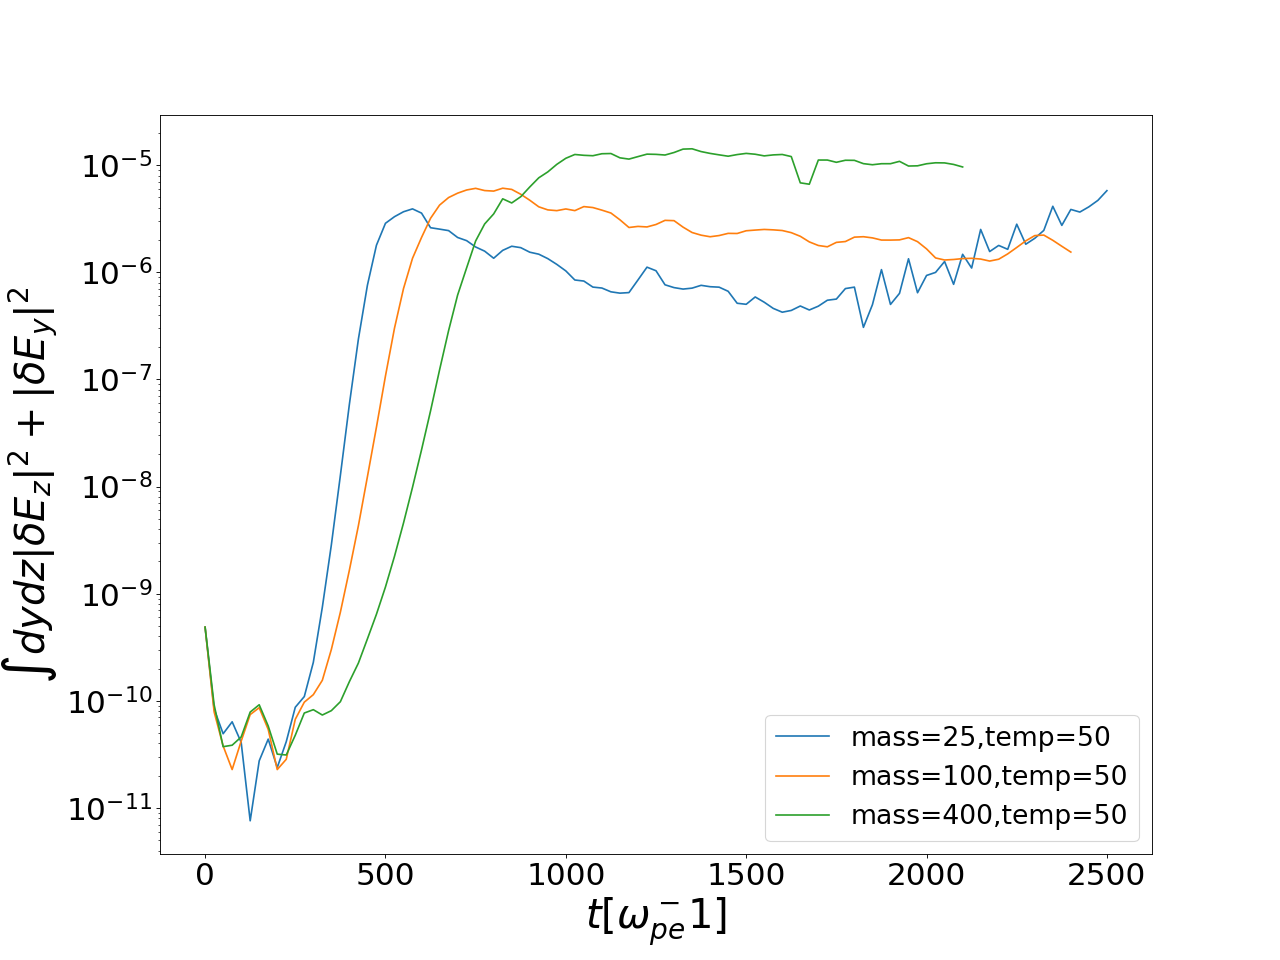
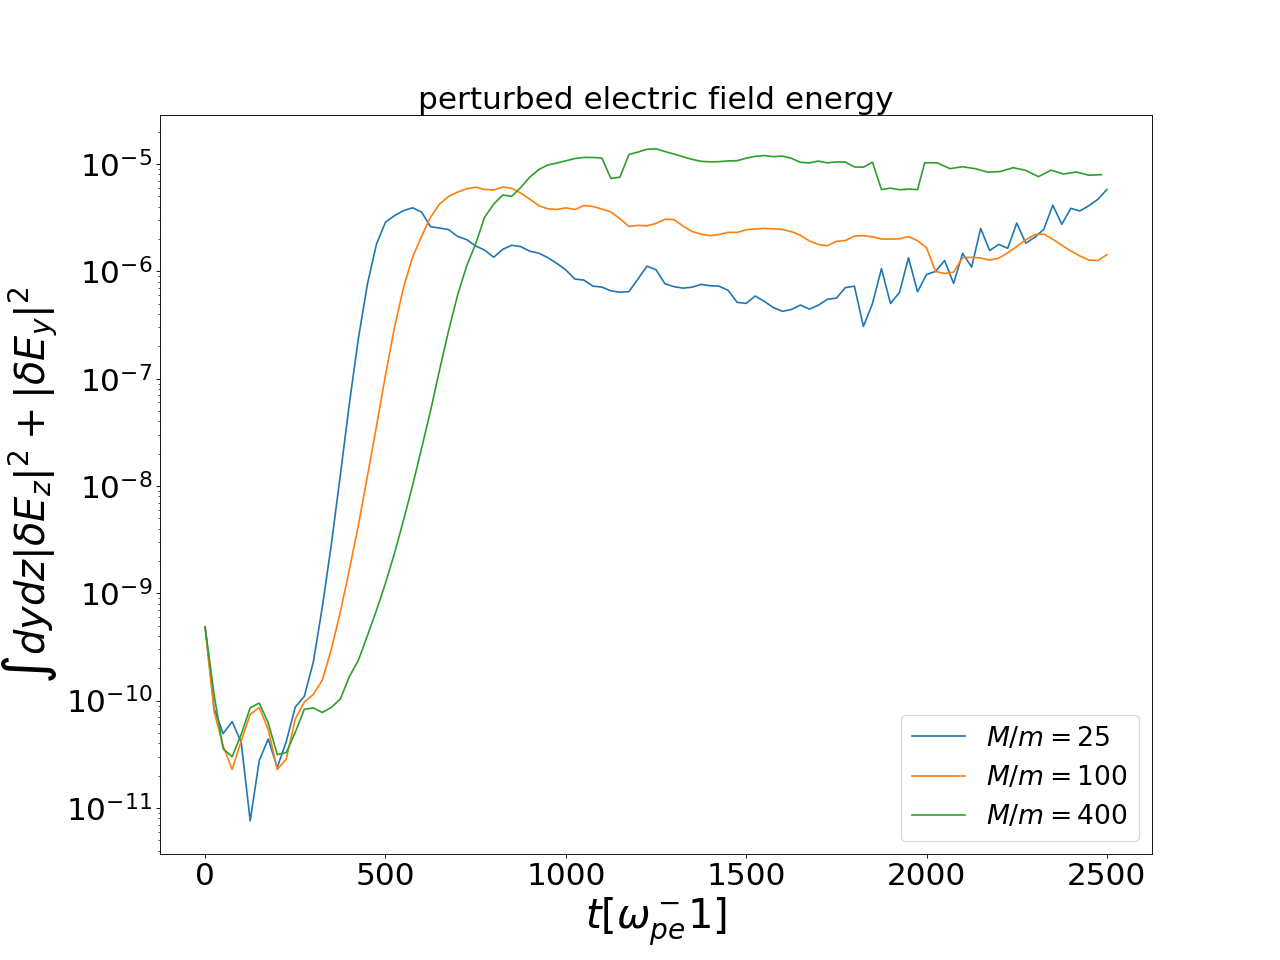
update

diff --git a/Diagnostics/local/massratio_local.py b/Diagnostics/local/massratio_local.py
@@ -116,18 +116,18 @@ from scipy.special import gamma
 # # ####### Field Energy Plot #######
 fieldEnergy1 = np.loadtxt('./Diagnostics/local/Cori/Low/saved_data/fieldEnergy.txt')
 time_fieldEnergy1 = np.loadtxt('./Diagnostics/local/Cori/Low/saved_data/fieldEnergy_time.txt')
-# fieldEnergy2 = np.loadtxt('./Diagnostics/local/Ratio/mass100/saved_data/fieldEnergy.txt')
-# time_fieldEnergy2 = np.loadtxt('./Diagnostics/local/Ratio/mass100/saved_data/fieldEnergy_time.txt')
-# fieldEnergy3 = np.loadtxt('./Diagnostics/local/Ratio/mass400/saved_data/fieldEnergy.txt')
-# time_fieldEnergy3 = np.loadtxt('./Diagnostics/local/Ratio/mass400/saved_data/fieldEnergy_time.txt')
+fieldEnergy2 = np.loadtxt('./Diagnostics/local/Ratio/mass100/saved_data/fieldEnergy.txt')
+time_fieldEnergy2 = np.loadtxt('./Diagnostics/local/Ratio/mass100/saved_data/fieldEnergy_time.txt')
+fieldEnergy3 = np.loadtxt('./Diagnostics/local/Ratio/mass400/saved_data/fieldEnergy.txt')
+time_fieldEnergy3 = np.loadtxt('./Diagnostics/local/Ratio/mass400/saved_data/fieldEnergy_time.txt')
 # fieldEnergy4 = np.loadtxt('./Diagnostics/local/Ratio/temp200/saved_data/fieldEnergy.txt')
 # time_fieldEnergy4 = np.loadtxt('./Diagnostics/local/Ratio/temp200/saved_data/fieldEnergy_time.txt')
 # fieldEnergy5 = np.loadtxt('./Diagnostics/local/Ratio/temp1/saved_data/fieldEnergy.txt')
 # time_fieldEnergy5 = np.loadtxt('./Diagnostics/local/Ratio/temp1/saved_data/fieldEnergy_time.txt')
-fieldEnergy6 = np.loadtxt('./Diagnostics/local/E_external/E1/saved_data/fieldEnergy.txt')
-time_fieldEnergy6 = np.loadtxt('./Diagnostics/local/E_external/E1/saved_data/fieldEnergy_time.txt')
-fieldEnergy7 = np.loadtxt('./Diagnostics/local/E_external/E3/saved_data/fieldEnergy.txt')
-time_fieldEnergy7 = np.loadtxt('./Diagnostics/local/E_external/E3/saved_data/fieldEnergy_time.txt')
+# fieldEnergy6 = np.loadtxt('./Diagnostics/local/E_external/E1/saved_data/fieldEnergy.txt')
+# time_fieldEnergy6 = np.loadtxt('./Diagnostics/local/E_external/E1/saved_data/fieldEnergy_time.txt')
+# fieldEnergy7 = np.loadtxt('./Diagnostics/local/E_external/E3/saved_data/fieldEnergy.txt')
+# time_fieldEnergy7 = np.loadtxt('./Diagnostics/local/E_external/E3/saved_data/fieldEnergy_time.txt')
 
 
 # # # fieldEnergy2 = np.loadtxt('./Diagnostics/local/E2_nu0.0001_check/E2_0.0001_2/saved_data/fieldEnergy.txt')
@@ -143,15 +143,15 @@ plt.figure(figsize=(16, 12), dpi=80)
 plt.title("perturbed electric field energy",fontsize=28)
 
 # #plt.plot(time_fieldEnergy2[:],fieldEnergy_z2[:],linewidth=5,label='high resolution, old')
-# plt.plot(time_fieldEnergy1[:],fieldEnergy1[:],label='$M/m=25$')
-# plt.plot(time_fieldEnergy2[:],fieldEnergy2[:],label='$M/m=100$')
-# plt.plot(time_fieldEnergy3[:95],fieldEnergy3[:95],label='$M/m=400$')
+plt.plot(time_fieldEnergy1[:],fieldEnergy1[:],label='$M/m=25$')
+plt.plot(time_fieldEnergy2[:],fieldEnergy2[:],label='$M/m=100$')
+plt.plot(time_fieldEnergy3[:95],fieldEnergy3[:95],label='$M/m=400$')
 # # plt.plot(time_fieldEnergy4[:],fieldEnergy4[:],label='mass=25,temp=200')
 # # plt.plot(time_fieldEnergy5[:],fieldEnergy5[:],label='mass=25,temp=1')
 
-plt.plot(time_fieldEnergy1[:],fieldEnergy1[:],label='E=5e-5')
-plt.plot(time_fieldEnergy7[:],fieldEnergy7[:],label='E=2.5e-5')
-plt.plot(time_fieldEnergy6[:100],fieldEnergy6[:100],label='E=1e-5')
+# plt.plot(time_fieldEnergy1[:],fieldEnergy1[:],label='E=5e-5')
+# plt.plot(time_fieldEnergy7[:],fieldEnergy7[:],label='E=2.5e-5')
+# plt.plot(time_fieldEnergy6[:],fieldEnergy6[:],label='E=1e-5')
 
 plt.xlabel(r'$t [\omega_{pe}^-1]$',fontsize=36)
 plt.ylabel(r'$\int dydz |\delta E_z|^2 + |\delta E_y|^2$',fontsize=36)
@@ -172,30 +172,30 @@ plt.show()
 # # # time_Iontemp4 = np.loadtxt('./Diagnostics/local/reduced_cost/spaceyzionelc/E2_nu0.0001/data/ion_intM2Thermal_time.txt')
 Iontemp1 = np.loadtxt('./Diagnostics/local/Cori/Low/saved_data/ion_intM2Thermal.txt')
 time_Iontemp1 = np.loadtxt('./Diagnostics/local/Cori/Low/saved_data/ion_intM2Thermal_time.txt')
-# Iontemp2 = np.loadtxt('./Diagnostics/local/Ratio/mass100/saved_data/ion_intM2Thermal.txt')
-# time_Iontemp2 = np.loadtxt('./Diagnostics/local/Ratio/mass100/saved_data/ion_intM2Thermal_time.txt')
-# Iontemp3 = np.loadtxt('./Diagnostics/local/Ratio/mass400/saved_data/ion_intM2Thermal.txt')
-# time_Iontemp3 = np.loadtxt('./Diagnostics/local/Ratio/mass400/saved_data/ion_intM2Thermal_time.txt')
+Iontemp2 = np.loadtxt('./Diagnostics/local/Ratio/mass100/saved_data/ion_intM2Thermal.txt')
+time_Iontemp2 = np.loadtxt('./Diagnostics/local/Ratio/mass100/saved_data/ion_intM2Thermal_time.txt')
+Iontemp3 = np.loadtxt('./Diagnostics/local/Ratio/mass400/saved_data/ion_intM2Thermal.txt')
+time_Iontemp3 = np.loadtxt('./Diagnostics/local/Ratio/mass400/saved_data/ion_intM2Thermal_time.txt')
 # Iontemp4 = np.loadtxt('./Diagnostics/local/Ratio/temp200/saved_data/ion_intM2Thermal.txt')
 # time_Iontemp4 = np.loadtxt('./Diagnostics/local/Ratio/temp200/saved_data/ion_intM2Thermal_time.txt')
 # Iontemp5 = np.loadtxt('./Diagnostics/local/Ratio/temp1/saved_data/ion_intM2Thermal.txt')
 # time_Iontemp5 = np.loadtxt('./Diagnostics/local/Ratio/temp1/saved_data/ion_intM2Thermal_time.txt')
-Iontemp6 = np.loadtxt('./Diagnostics/local/E_external/E1/saved_data/ion_intM2Thermal.txt')
-time_Iontemp6 = np.loadtxt('./Diagnostics/local/E_external/E1/saved_data/ion_intM2Thermal_time.txt')
-Iontemp7 = np.loadtxt('./Diagnostics/local/E_external/E3/saved_data/ion_intM2Thermal.txt')
-time_Iontemp7 = np.loadtxt('./Diagnostics/local/E_external/E3/saved_data/ion_intM2Thermal_time.txt')
+# Iontemp6 = np.loadtxt('./Diagnostics/local/E_external/E1/saved_data/ion_intM2Thermal.txt')
+# time_Iontemp6 = np.loadtxt('./Diagnostics/local/E_external/E1/saved_data/ion_intM2Thermal_time.txt')
+# Iontemp7 = np.loadtxt('./Diagnostics/local/E_external/E3/saved_data/ion_intM2Thermal.txt')
+# time_Iontemp7 = np.loadtxt('./Diagnostics/local/E_external/E3/saved_data/ion_intM2Thermal_time.txt')
 
 plt.figure(figsize=(16, 12), dpi=80)
 plt.title("ion temperature ratio",fontsize=28)
 
 # #plt.plot(time_Iontemp[:],Iontemp[1:]/Iontemp[0],linewidth=5,label='high resolution, old')
-plt.plot(time_Iontemp1[:],Iontemp1[:]/Iontemp1[0],label='E=5e-5')
-# plt.plot(time_Iontemp2[:],Iontemp2[:]/Iontemp2[0],label='$M/m=100$')
-# plt.plot(time_Iontemp3[:250],Iontemp3[:250]/Iontemp3[0],label='$M/m=400$')
+plt.plot(time_Iontemp1[:],Iontemp1[:]/Iontemp1[0],label='$M/m=25$')
+plt.plot(time_Iontemp2[:],Iontemp2[:]/Iontemp2[0],label='$M/m=100$')
+plt.plot(time_Iontemp3[:250],Iontemp3[:250]/Iontemp3[0],label='$M/m=400$')
 # #plt.plot(time_Iontemp4[:],Iontemp4[:]/Iontemp4[0],label='mass=25,temp=200')
 # #plt.plot(time_Iontemp5[:],Iontemp5[:]/Iontemp5[0],label='mass=25,temp=1')
-plt.plot(time_Iontemp7[:],Iontemp7[:]/Iontemp7[0],label='E=2.5e-5')
-plt.plot(time_Iontemp6[:],Iontemp6[:]/Iontemp6[0],label='E=1.0e-5')
+# plt.plot(time_Iontemp7[:],Iontemp7[:]/Iontemp7[0],label='E=2.5e-5')
+# plt.plot(time_Iontemp6[:],Iontemp6[:]/Iontemp6[0],label='E=1.0e-5')
 plt.xlabel(r'$t [\omega_{pe}^-1]$',fontsize=36)
 plt.ylabel(r'$T_i/T_{i0}$',fontsize=36)
 # #plt.yscale('log')
@@ -271,19 +271,19 @@ plt.show()
 # time_current3 = np.loadtxt('./Diagnostics/local/reduced_cost/spaceyzionelc/E2_nu0.0001/data/elc_intM1i_time.txt')
 current1 = np.loadtxt('./Diagnostics/local/Cori/Low/saved_data/elc_intM1i.txt')*2
 time_current1 = np.loadtxt('./Diagnostics/local/Cori/Low/saved_data/elc_intM1i_time.txt')
-# current2 = np.loadtxt('./Diagnostics/local/Ratio/mass100/saved_data/elc_intM1i.txt')*2
-# time_current2 = np.loadtxt('./Diagnostics/local/Ratio/mass100/saved_data/elc_intM1i_time.txt')
-# current3 = np.loadtxt('./Diagnostics/local/Ratio/mass400/saved_data/elc_intM1i.txt')*2
-# time_current3 = np.loadtxt('./Diagnostics/local/Ratio/mass400/saved_data/elc_intM1i_time.txt')
+current2 = np.loadtxt('./Diagnostics/local/Ratio/mass100/saved_data/elc_intM1i.txt')*2
+time_current2 = np.loadtxt('./Diagnostics/local/Ratio/mass100/saved_data/elc_intM1i_time.txt')
+current3 = np.loadtxt('./Diagnostics/local/Ratio/mass400/saved_data/elc_intM1i.txt')*2
+time_current3 = np.loadtxt('./Diagnostics/local/Ratio/mass400/saved_data/elc_intM1i_time.txt')
 # current4 = np.loadtxt('./Diagnostics/local/Ratio/temp200/saved_data/elc_intM1i.txt')*2
 # time_current4 = np.loadtxt('./Diagnostics/local/Ratio/temp200/saved_data/elc_intM1i_time.txt')
 # current5 = np.loadtxt('./Diagnostics/local/Ratio/temp1/saved_data/elc_intM1i.txt')*2
 # time_current5 = np.loadtxt('./Diagnostics/local/Ratio/temp1/saved_data/elc_intM1i_time.txt')
 
-current6 = np.loadtxt('./Diagnostics/local/E_external/E1/saved_data/elc_intM1i.txt')*2
-time_current6 = np.loadtxt('./Diagnostics/local/E_external/E1/saved_data/elc_intM1i_time.txt')
-current7 = np.loadtxt('./Diagnostics/local/E_external/E3/saved_data/elc_intM1i.txt')*2
-time_current7 = np.loadtxt('./Diagnostics/local/E_external/E3/saved_data/elc_intM1i_time.txt')
+# current6 = np.loadtxt('./Diagnostics/local/E_external/E1/saved_data/elc_intM1i.txt')*2
+# time_current6 = np.loadtxt('./Diagnostics/local/E_external/E1/saved_data/elc_intM1i_time.txt')
+# current7 = np.loadtxt('./Diagnostics/local/E_external/E3/saved_data/elc_intM1i.txt')*2
+# time_current7 = np.loadtxt('./Diagnostics/local/E_external/E3/saved_data/elc_intM1i_time.txt')
 
 # print(current1.shape)
 # print(current2.shape)
@@ -294,8 +294,8 @@ def lineFunc(x,a,b):
   return np.add(np.multiply(x,a),b)
 
 poptMaxima1, _ = curve_fit(lineFunc, time_current1[120:200], current1[120:200])
-poptMaxima2, _ = curve_fit(lineFunc, time_current6[85:125], current6[85:125])
-poptMaxima3, _ = curve_fit(lineFunc, time_current7[135:175], current7[135:175])
+poptMaxima2, _ = curve_fit(lineFunc, time_current2[85:125], current2[85:125])
+poptMaxima3, _ = curve_fit(lineFunc, time_current3[135:175], current3[135:175])
 
 # print(poptMaxima1)
 # print(poptMaxima2)
@@ -305,15 +305,15 @@ plt.title("electron current",fontsize=28)
 
 # plt.plot(time_current3[:],vte_2,linewidth=2,label='vthe, high resolution',color='red',linestyle='--')
 # plt.plot(time_current4[:],vte_3,linewidth=2,label='vthe, low resolution',color='blue',linestyle='--')
-# plt.plot(time_current1[:],current1[:],label='$M/m=25$')
-# plt.plot(time_current2[:],current2[:],label='$M/m=100$')
-# plt.plot(time_current3[:250],current3[:250],label='$M/m=400$')
+plt.plot(time_current1[:],current1[:],label='$M/m=25$')
+plt.plot(time_current2[:],current2[:],label='$M/m=100$')
+plt.plot(time_current3[:250],current3[:250],label='$M/m=400$')
 #plt.plot(time_current4[:],current4[:],label='mass=25,temp=200')
 #plt.plot(time_current5[:],current5[:],label='mass=25,temp=1')
 
-plt.plot(time_current1[:],current1[:],label='$E=5e-5$')
-plt.plot(time_current7[:],current7[:],label='$E=2.5e-5$')
-plt.plot(time_current6[:],current6[:],label='$E=1e-5$')
+# plt.plot(time_current1[:],current1[:],label='$E=5e-5$',linewidth=3)
+# plt.plot(time_current7[:],current7[:],label='$E=2.5e-5$',linewidth=3)
+# plt.plot(time_current6[:],current6[:],label='$E=1e-5$',linewidth=3)
 
 # plt.plot(time_current1[120:200],lineFunc(time_current1[120:200],*poptMaxima1),linestyle='None',marker='o',markersize=4,markevery=2)
 # plt.plot(time_current2[85:125],lineFunc(time_current2[85:125],*poptMaxima2),linestyle='None',marker='o',markersize=4,markevery=2)
@@ -344,29 +344,29 @@ for i in range(np.size(current1)-1):
 for i in range(np.size(current1)-2):
     nu_eff1[i] = (0.00005 - dJdt1[i]) / current1[i]
 
-# # nu_eff_smooth1 = np.zeros(np.size(current1)-2)
-# # for i in range(np.size(current1)-50):
-# #     nu_eff_smooth1[i] = np.average(nu_eff1[i:i+48])
+# nu_eff_smooth1 = np.zeros(np.size(current1)-2)
+# for i in range(np.size(current1)-50):
+#     nu_eff_smooth1[i] = np.average(nu_eff1[i:i+48])
 
-# dJdt2 = np.zeros(np.size(current2)-1)
-# nu_eff2 = np.zeros(np.size(current2)-1)
-# for i in range(np.size(current2)-1):
-#     dJdt2[i] = (current2[i+1] - current2[i]) / (time_current2[i+1] - time_current2[i])
+dJdt2 = np.zeros(np.size(current2)-1)
+nu_eff2 = np.zeros(np.size(current2)-1)
+for i in range(np.size(current2)-1):
+    dJdt2[i] = (current2[i+1] - current2[i]) / (time_current2[i+1] - time_current2[i])
 
-# for i in range(np.size(current2)-1):
-#     nu_eff2[i] = (0.00005 - dJdt2[i]) / current2[i]
+for i in range(np.size(current2)-1):
+    nu_eff2[i] = (0.00005 - dJdt2[i]) / current2[i]
 
-# # nu_eff_smooth2 = np.zeros(np.size(current2)-1-50)
-# # for i in range(np.size(current2)-51):
-# #     nu_eff_smooth2[i] = np.average(nu_eff2[i:i+50])
+# nu_eff_smooth2 = np.zeros(np.size(current2)-1-50)
+# for i in range(np.size(current2)-51):
+#     nu_eff_smooth2[i] = np.average(nu_eff2[i:i+50])
 
-# dJdt3 = np.zeros(np.size(current3)-1)
-# nu_eff3 = np.zeros(np.size(current3)-1)
-# for i in range(np.size(current3)-1):
-#     dJdt3[i] = (current3[i+1] - current3[i]) / (time_current3[i+1] - time_current3[i])
+dJdt3 = np.zeros(np.size(current3)-1)
+nu_eff3 = np.zeros(np.size(current3)-1)
+for i in range(np.size(current3)-1):
+    dJdt3[i] = (current3[i+1] - current3[i]) / (time_current3[i+1] - time_current3[i])
 
-# for i in range(np.size(current3)-2):
-    # nu_eff3[i] = (0.00005 - dJdt3[i]) / current3[i]
+for i in range(np.size(current3)-2):
+    nu_eff3[i] = (0.00005 - dJdt3[i]) / current3[i]
 
 # nu_eff_smooth3 = np.zeros(np.size(current3)-51)
 # for i in range(np.size(current3)-51):
@@ -408,35 +408,35 @@ for i in range(np.size(current1)-2):
 # for i in range(np.size(current1)-50):
 #     nu_eff_smooth1[i] = np.average(nu_eff1[i:i+48])
 
-# plt.figure(figsize=(16, 12), dpi=80)
-# plt.title('$\\nu_{eff}$',fontsize=28)
-# #plt.plot(time_current1[10:],nu_eff1[9:],label='high resolution, nu=0.0001')
-# #plt.plot(time_current[10:1020],nu_eff_smooth[10:1020])
-# plt.plot(time_current1[9:],nu_eff1[8:],label='$M/m=25$')
-# plt.plot(time_current2[9:],nu_eff2[8:],label='$M/m=100$')
-# plt.plot(time_current3[9:250],nu_eff3[9:250],label='$M/m=400$')
-# # plt.plot(time_current4[9:],nu_eff4[8:],label='mass=25,temp=200')
-# # plt.plot(time_current7[9:],nu_eff7[8:],label='$E=2.5e-5$')
-# # plt.plot(time_current6[9:],nu_eff6[8:],label='$E=1.0e-5$')
-# #plt.hlines(0.0002,0,3500,linestyles='--')
-# #plt.text(100,0.00025,'0.0002',fontsize=28)
-# plt.xlabel(r'$t [\omega_{pe}^-1]$',fontsize=36)
-# plt.ylabel(r'$<nu_{eff}>$',fontsize=36)
-# plt.tick_params(labelsize = 28)
-# plt.legend(fontsize=28)
-# plt.show()
+plt.figure(figsize=(16, 12), dpi=80)
+plt.title('$\\nu_{eff}$',fontsize=28)
+#plt.plot(time_current1[10:],nu_eff1[9:],label='high resolution, nu=0.0001')
+#plt.plot(time_current[10:1020],nu_eff_smooth[10:1020])
+plt.plot(time_current1[9:],nu_eff1[8:],label='$M/m=25$')
+plt.plot(time_current2[9:],nu_eff2[8:],label='$M/m=100$')
+plt.plot(time_current3[9:250],nu_eff3[9:250],label='$M/m=400$')
+# plt.plot(time_current4[9:],nu_eff4[8:],label='mass=25,temp=200')
+# plt.plot(time_current7[9:],nu_eff7[8:],label='$E=2.5e-5$')
+# plt.plot(time_current6[9:],nu_eff6[8:],label='$E=1.0e-5$')
+#plt.hlines(0.0002,0,3500,linestyles='--')
+#plt.text(100,0.00025,'0.0002',fontsize=28)
+plt.xlabel(r'$t [\omega_{pe}^-1]$',fontsize=36)
+plt.ylabel(r'$<nu_{eff}>$',fontsize=36)
+plt.tick_params(labelsize = 28)
+plt.legend(fontsize=28)
+plt.show()
 
 
 ########################## E/J plot #############################
 plt.figure(figsize=(16, 12), dpi=80)
 plt.title('$E_{ext}/J$',fontsize=28)
 
-plt.plot(time_current1[8:],0.00005/current1[8:],label='$E=5e-5$')
-plt.plot(time_current7[8:],0.000025/current7[8:],label='$E=2.5e-5$')
-plt.plot(time_current6[8:],0.00001/current6[8:],label='$E=1e-5$')
+plt.plot(time_current1[8:],0.00005/current1[8:],label='$M/m=25$')
+plt.plot(time_current2[8:],0.00005/current2[8:],label='$M/m=100$')
+plt.plot(time_current3[8:250],0.00005/current3[8:250],label='$M/m=400$')
 
 plt.xlabel(r'$t [\omega_{pe}^-1]$',fontsize=36)
-#plt.ylabel(r'$E_{ext}/J$',fontsize=36)
+plt.ylabel(r'$<nu_{eff}>$',fontsize=36)
 plt.tick_params(labelsize = 28)
 plt.legend(fontsize=28)
 plt.yscale('log')
